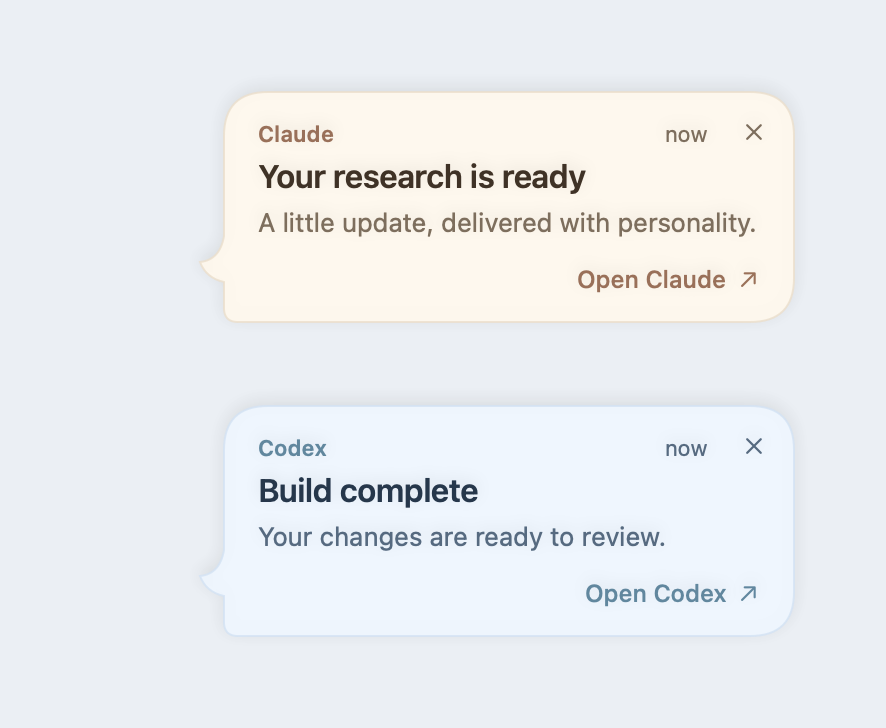
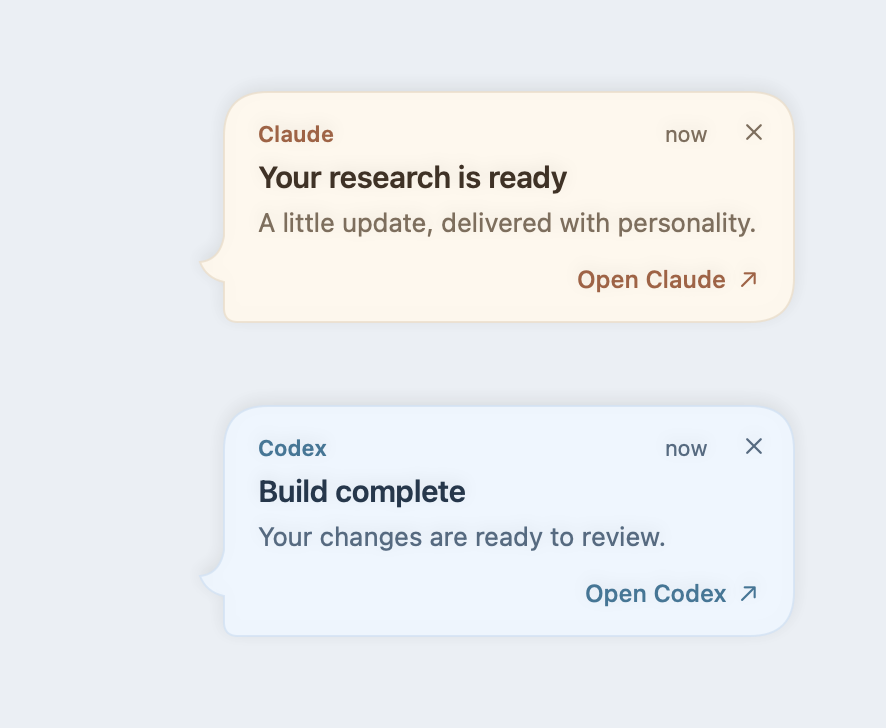
Keep updates quiet and unify vine and notification bubble styling

diff --git a/Sources/AlienPing/VineView.swift b/Sources/AlienPing/VineView.swift
@@ -57,7 +57,10 @@ struct VineView:View {
     @ObservedObject var model:Model
     @ObservedObject var state:VineState
     var targetsChanged:([VineHitTarget])->Void = {_ in}
-    private let ink=Color(hex:"303730")
+    @Environment(\.colorScheme) private var scheme
+    private var ink:Color { Color(hex:scheme == .dark ? "E5ECE4":"303730") }
+    private var chrome:Color { Color(hex:scheme == .dark ? "253029":"FAFCF7") }
+    private var leafInk:Color { Color(hex:scheme == .dark ? "BDD1AB":"536B43") }
     private var unread:[InboxEntry] { VineSummary.previewable(attention.inbox.entries) }
     private var isExpanded:Bool { state.visible(hasItems:!unread.isEmpty,quiet:attention.isQuiet) }
     var body:some View {
@@ -70,21 +73,20 @@ struct VineView:View {
         .coordinateSpace(name:"vine")
         .onPreferenceChange(VineTargets.self,perform:targetsChanged)
         .font(.system(size:13)).foregroundStyle(ink)
-        .environment(\.colorScheme,.light)
     }
     private var expanded:some View {
         VStack(spacing:0) {
             HStack(spacing:8) {
                 Button { attention.showInbox?() } label:{
                     HStack(spacing:8) {
-                        Image(systemName:"leaf").font(.system(size:13,weight:.medium)).foregroundStyle(Color(hex:"687D55"))
+                        Image(systemName:"leaf").font(.system(size:13,weight:.medium)).foregroundStyle(leafInk)
                         Text("Notifications").font(.system(size:13,weight:.medium))
-                        Text("\(min(6,unread.count)) of \(unread.count)").font(.system(size:11)).foregroundStyle(Color(hex:"687268"))
+                        Text("\(min(6,unread.count)) of \(unread.count)").font(.system(size:11)).foregroundStyle(ink.opacity(0.65))
                     }
                 }.buttonStyle(.plain).help("Open notification tray")
                 Spacer(minLength:2)
             }.padding(.leading,12).padding(.trailing,5).frame(height:40)
-                .background(Color(hex:"FAFCF7"),in:RoundedRectangle(cornerRadius:12))
+                .background(chrome,in:RoundedRectangle(cornerRadius:12))
                 .shadow(color:.black.opacity(0.08),radius:8,y:2).vineTarget().padding(.leading,42).padding(.trailing,10).padding(.top,8).padding(.bottom,8)
             GeometryReader { space in
                 ScrollView {
@@ -93,7 +95,7 @@ struct VineView:View {
                             VStack(alignment:.leading,spacing:8) {
                                 Text("No saved previews yet").font(.system(size:15,weight:.medium))
                                 Text("New notifications with message text will appear here. Older alerts without saved text stay in your tray.").font(.system(size:12)).foregroundStyle(ink.opacity(0.7))
-                            }.padding(18).background(Color(hex:"FAFCF7"),in:RoundedRectangle(cornerRadius:14)).padding(.leading,56).padding(.trailing,12)
+                            }.padding(18).background(chrome,in:RoundedRectangle(cornerRadius:14)).padding(.leading,56).padding(.trailing,12)
                         }
                         ForEach(VineSummary.recent(unread)) { entry in
                             row(entry).frame(minHeight:max(112,(space.size.height-16)/CGFloat(max(1,min(6,unread.count)))))
@@ -102,12 +104,12 @@ struct VineView:View {
                 }.scrollIndicators(.hidden)
             }.background(alignment:.leading){ VineStem() }
             Button { attention.showInbox?() } label:{Text("View all notifications").font(.system(size:11,weight:.medium)).padding(.horizontal,14).padding(.vertical,7)}
-                .buttonStyle(.plain).background(Color(hex:"FFF8ED"),in:Capsule()).vineTarget().padding(.vertical,8)
+                .buttonStyle(.plain).background(chrome,in:Capsule()).vineTarget().padding(.vertical,8)
         }
     }
-    private func accent(_ source:SourceApp)->Color { Color(hex:source == .claude ? "A8603F":"347798") }
     private func row(_ entry:InboxEntry)->some View {
-        let color=accent(entry.source)
+        let appearance=NotificationAppearance(source:entry.source,scheme:scheme)
+        let color=appearance.accent
         let missing=entry.title.isEmpty && entry.body.isEmpty
         let title=model.hideText || missing ? "Notification from \(entry.source.rawValue)" : (entry.title.isEmpty ? String(entry.body.prefix(100)) : entry.title)
         let detail=model.hideText ? "Message preview hidden" : (missing ? "Message text wasn’t saved for this older notification." : (entry.title.isEmpty ? "" : entry.body))
@@ -122,17 +124,18 @@ struct VineView:View {
                         HStack {
                             Text(entry.source.rawValue).fontWeight(.semibold).foregroundStyle(color)
                             Spacer()
-                            Text(entry.date.formatted(date:.omitted,time:.shortened)).foregroundStyle(ink.opacity(0.55))
+                            Text(entry.date.formatted(date:.omitted,time:.shortened)).foregroundStyle(appearance.secondary)
                         }.font(.system(size:11))
-                        Text(title).font(.system(size:14,weight:.medium)).lineLimit(2).multilineTextAlignment(.leading)
-                        if !detail.isEmpty { Text(detail).font(.system(size:12)).foregroundStyle(Color(hex:entry.source == .claude ? "66574D":"4C606D")).lineLimit(3).multilineTextAlignment(.leading) }
+                        Text(title).font(NotificationAppearance.title).tracking(-0.2).foregroundStyle(appearance.ink).lineLimit(2).multilineTextAlignment(.leading)
+                        if !detail.isEmpty { Text(detail).font(NotificationAppearance.body).foregroundStyle(appearance.secondary).lineLimit(3).multilineTextAlignment(.leading) }
                     }.frame(maxWidth:.infinity,minHeight:46,alignment:.leading).contentShape(Rectangle())
                 }.buttonStyle(.plain).help("Open \(entry.source.rawValue)")
                 Button { attention.markRead(entry.id) } label:{Image(systemName:"checkmark.circle").font(.system(size:16,weight:.regular)).foregroundStyle(color.opacity(0.8)).frame(width:30,height:44)}
                     .buttonStyle(.plain).help("Mark read").accessibilityLabel("Mark \(title) read")
-            }.padding(.leading,14).padding(.trailing,5).padding(.vertical,12)
-                .background(Color(hex:entry.source == .claude ? "FFFCF6":"F4FAFF"),in:RoundedRectangle(cornerRadius:14))
-                .shadow(color:.black.opacity(0.10),radius:10,y:3).vineTarget(scrolled:true).padding(.trailing,12)
+            }.padding(.leading,27).padding(.trailing,8).padding(.vertical,14)
+                .background(NotificationBubble().fill(appearance.paper))
+                .overlay(NotificationBubble().stroke(appearance.edge.opacity(0.8),lineWidth:1).allowsHitTesting(false))
+                .shadow(color:appearance.shadow,radius:4,y:2).vineTarget(scrolled:true).padding(.trailing,12)
         }.padding(.bottom,8).modifier(VineArrival())
     }
     private var collapsed:some View {
@@ -146,8 +149,8 @@ struct VineView:View {
                 Image(systemName:attention.isQuiet ? "moon":"chevron.\(isExpanded ? "left":"right")").font(.system(size:18,weight:.semibold))
                 if !isExpanded && !unread.isEmpty { Text("\(unread.count)").font(.system(size:11,weight:.semibold)) }
                 if unread.isEmpty { Image(systemName:"leaf").font(.system(size:12)) }
-            }.foregroundStyle(Color(hex:"536B43")).frame(width:52,height:64)
-                .background(Color(hex:"FAFCF7"),in:RoundedRectangle(cornerRadius:18))
+            }.foregroundStyle(leafInk).frame(width:52,height:64)
+                .background(chrome,in:RoundedRectangle(cornerRadius:18))
                 .shadow(color:.black.opacity(0.14),radius:8,y:3).contentShape(RoundedRectangle(cornerRadius:18))
         }.buttonStyle(.plain)
             .accessibilityLabel(isExpanded ? "Collapse notification vine" : "Expand notification vine")

diff --git a/Sources/AlienPing/ReadmePreview.swift b/Sources/AlienPing/ReadmePreview.swift
@@ -11,8 +11,8 @@ enum ReadmePreview {
         let attention=AttentionController(model:model,directory:temporary)
         attention.inbox.insert(InboxEntry(source:.claude,title:"Your research is ready",body:"The comparison and source notes are ready to review."))
         attention.inbox.insert(InboxEntry(source:.codex,title:"Build complete",body:"Your changes are ready. Take a look when you have a moment."))
-        func save<V:View>(_ view:V,_ name:String) throws {
-            let host=NSHostingView(rootView:view.environment(\.colorScheme,.light).environment(\.vineStaticPreview,true))
+        func save<V:View>(_ view:V,_ name:String,scheme:ColorScheme = .light) throws {
+            let host=NSHostingView(rootView:view.environment(\.colorScheme,scheme).environment(\.vineStaticPreview,true))
             let size=host.fittingSize
             host.frame=NSRect(origin:.zero,size:size)
             let window=NSWindow(contentRect:host.frame,styleMask:[.borderless],backing:.buffered,defer:false)
@@ -32,6 +32,16 @@ enum ReadmePreview {
         attention.inbox.insert(InboxEntry(source:.claude,title:"Comparison complete",body:"Three options compared, with the key trade-offs highlighted.",date:Date().addingTimeInterval(-600)))
         attention.inbox.insert(InboxEntry(source:.codex,title:"Review ready",body:"The notification layout changes are ready for you to review.",date:Date().addingTimeInterval(-720)))
         try save(VineView(attention:attention,model:model,state:state).frame(width:372,height:900).padding(22).background(Color(hex:"D7E2EB")),"vine.png")
+        try save(HStack(alignment:.top,spacing:24) {
+            VineView(attention:attention,model:model,state:state).frame(width:372,height:900)
+            VStack(alignment:.leading,spacing:22) {
+                Text("Same messages. Same style.").font(.system(size:22,weight:.semibold)).padding(.leading,60)
+                PingView(ping:Ping(source:.claude,title:"Your research is ready",body:"The comparison and source notes are ready to review."),color:.orange,hideText:false,open:{},dismiss:{}).frame(width:400,height:170)
+                PingView(ping:Ping(source:.codex,title:"Build complete",body:"Your changes are ready. Take a look when you have a moment."),color:.blue,hideText:false,open:{},dismiss:{}).frame(width:400,height:170)
+                Text("Illustrative messages · offscreen render").font(.system(size:12)).foregroundStyle(.secondary).padding(.leading,60)
+            }.padding(.top,40)
+        }.padding(24).background(Color(hex:"EAEFF5")),"matched-ui.png")
+        try save(VineView(attention:attention,model:model,state:state).frame(width:372,height:900).padding(22).background(Color(hex:"151A20")),"vine-dark.png",scheme:.dark)
         state.expanded=false
         try save(VineView(attention:attention,model:model,state:state).frame(width:76,height:116).padding(22).background(Color(hex:"D7E2EB")),"vine-collapsed.png")
         try save(AttentionView(attention:attention,model:model).frame(width:640,height:680),"tray.png")

diff --git a/Sources/AlienPing/Views.swift b/Sources/AlienPing/Views.swift
@@ -30,12 +30,12 @@ struct PingView: View {
     let dismiss: () -> Void
     @Environment(\.colorScheme) private var scheme
     @State private var hovered = false
-    private var isCodex:Bool { ping.source == .codex }
-    private var ink:Color { Color(hex:scheme == .dark ? (isCodex ? "E5F3FF" : "FFF0DE") : (isCodex ? "21384D" : "423124")) }
-    private var secondary:Color { Color(hex:scheme == .dark ? (isCodex ? "A9C5DA" : "C6B6A5") : (isCodex ? "516B82" : "806D5B")) }
-    private var paper:Color { Color(hex:scheme == .dark ? (isCodex ? "142B3E" : "302A25") : (isCodex ? "EDF6FF" : "FFF8ED")) }
-    private var edge:Color { Color(hex:scheme == .dark ? (isCodex ? "31536D" : "514439") : (isCodex ? "D0E3F5" : "EDDEC9")) }
-    private var accent:Color { scheme == .dark ? color : Color(nsColor:(NSColor(color).blended(withFraction:0.38,of:.black) ?? NSColor(color))) }
+    private var appearance:NotificationAppearance { NotificationAppearance(source:ping.source,scheme:scheme) }
+    private var ink:Color { appearance.ink }
+    private var secondary:Color { appearance.secondary }
+    private var paper:Color { appearance.paper }
+    private var edge:Color { appearance.edge }
+    private var accent:Color { appearance.accent }
     var body: some View {
         ZStack(alignment:.topTrailing) {
             Button(action:open) {
@@ -46,7 +46,7 @@ struct PingView: View {
                         Text(ping.preview ? "Preview" : "now").font(.system(size:11)).foregroundStyle(secondary)
                     }.padding(.trailing,25)
                     Text(hideText ? "New notification" : ping.title)
-                        .font(.system(size:16,weight:.semibold)).tracking(-0.2).lineLimit(1)
+                        .font(NotificationAppearance.title).tracking(-0.2).lineLimit(1)
                         .frame(maxWidth:.infinity,alignment:.leading)
                     Text(hideText ? "Your message is ready to read." : ping.body)
                         .font(.system(size:13)).foregroundStyle(secondary).lineLimit(2)
@@ -71,7 +71,7 @@ struct PingView: View {
         }
         .background(NotificationBubble().fill(paper))
         .overlay(NotificationBubble().stroke(edge.opacity(hovered ? 1 : 0.8),lineWidth:1).allowsHitTesting(false))
-        .shadow(color:.black.opacity(scheme == .dark ? 0.18 : 0.08),radius:4,x:0,y:2)
+        .shadow(color:appearance.shadow,radius:4,x:0,y:2)
         .padding(.leading,60).padding(.trailing,6).padding(.vertical,6)
         .onHover { hovered=$0 }
     }

diff --git a/Sources/AlienPing/NotificationAppearance.swift b/Sources/AlienPing/NotificationAppearance.swift
@@ -1,0 +1,19 @@
+import SwiftUI
+import AlienCore
+
+/// Shared by live speech bubbles and saved vine messages.
+struct NotificationAppearance {
+    let source:SourceApp
+    let scheme:ColorScheme
+    private var codex:Bool { source == .codex }
+    private var dark:Bool { scheme == .dark }
+    var ink:Color { Color(hex:dark ? (codex ? "E5F3FF":"FFF0DE") : (codex ? "21384D":"423124")) }
+    var secondary:Color { Color(hex:dark ? (codex ? "A9C5DA":"C6B6A5") : (codex ? "516B82":"806D5B")) }
+    var paper:Color { Color(hex:dark ? (codex ? "142B3E":"302A25") : (codex ? "EDF6FF":"FFF8ED")) }
+    var edge:Color { Color(hex:dark ? (codex ? "31536D":"514439") : (codex ? "D0E3F5":"EDDEC9")) }
+    var accent:Color { Color(hex:dark ? (codex ? "81C9ED":"EDA47F") : (codex ? "347798":"A8603F")) }
+    var shadow:Color { .black.opacity(dark ? 0.18:0.08) }
+    static let title=Font.system(size:15,weight:.semibold)
+    static let body=Font.system(size:13)
+    static let label=Font.system(size:11,weight:.semibold)
+}

diff --git a/Sources/AlienPing/main.swift b/Sources/AlienPing/main.swift
@@ -45,7 +45,7 @@ final class Delegate: NSObject, NSApplicationDelegate {
         vineMenuItem?.state = vine?.state.enabled == true ? .on : .off
         model.monitor.start()
         if CommandLine.arguments.contains("-mascotPreview") { showMascotStage() }
-        else if !CommandLine.arguments.contains("--login-item") { showSettings() }
+        else if !CommandLine.arguments.contains("--login-item") && !CommandLine.arguments.contains("--background") { showSettings() }
         if CommandLine.arguments.contains("--preview-all") {
             DispatchQueue.main.asyncAfter(deadline:.now()+1) {
                 self.model.preview(.claude)

diff --git a/scripts/test_pipeline.py b/scripts/test_pipeline.py
@@ -38,6 +38,12 @@ class PipelineTests(unittest.TestCase):
                 self.assertEqual((live/'version').read_text(),'old')
                 self.assertEqual((root/'failed.app/version').read_text(),'new')
                 self.assertEqual(launch.call_count,2)
+    def test_update_launch_is_background_without_test_alerts(self):
+        with tempfile.TemporaryDirectory() as tmp:
+            logs=Path(tmp); (logs/'AlienPing-status.json').write_text('{}')
+            with patch.object(p,'LOGS',logs), patch.object(p,'run') as run, patch.object(p,'pids',return_value=set()), patch.object(p,'fresh_status',return_value=True):
+                p.launch()
+                self.assertEqual(run.call_args.args[0],['open','-n','-g',str(p.LIVE),'--args','--background'])
     def test_process_match_is_exact(self):
         path='/test space/AlienPing.app/Contents/MacOS/AlienPing'
         self.assertEqual(p.match_pids('12 '+path+' --preview-all\n13 cat '+path+'\n14 '+path+'Other',path),{12})

diff --git a/scripts/pipeline.py b/scripts/pipeline.py
@@ -68,8 +68,8 @@ def verify(app):
 
 def launch(preview=False):
     started=time.time()
-    command=['open','-n','-g',str(LIVE)]
-    if preview: command+=['--args','--preview-all']
+    command=['open','-n','-g',str(LIVE),'--args','--background']
+    if preview: command+=['--preview-all']
     run(command)
     deadline=time.monotonic()+20
     while time.monotonic()<deadline:

diff --git a/README.md b/README.md
@@ -22,13 +22,15 @@ These GIFs show the bundled character frames. In the app, companions also travel
 
 ![Native notification vine with sample messages](docs/images/vine.png)
 
-Unread Claude and Codex updates become orange and blue leaves along the left screen edge. Click a title to open its app or the check to mark it read. The vine uses the full available screen height and shows the latest six individual unread notifications across both apps, newest first, with their titles and message previews. Items without saved text are omitted from the vine; all notifications remain in the full tray. New cards fade in, with a static Reduce Motion alternative. Collapse it with the larger button midway down the left edge, or hide it through **sparkle menu → Show notification vine**. Your choice survives restart. Quiet mode and an empty tray show only the small leaf badge.
+Unread Claude and Codex updates become orange and blue leaves along the left screen edge. Click a title to open its app or the check to mark it read. The vine uses the full available screen height and shows the latest six individual unread notifications across both apps, newest first, with their titles and message previews. Items without saved text are omitted from the vine; all notifications remain in the full tray. New cards fade in, with a static Reduce Motion alternative. Collapse it with the larger button midway down the left edge, or hide it through **sparkle menu → Show notification vine**. Your choice survives restart. Quiet mode and an empty tray default to the small leaf badge; clicking it still opens the vine. The vine and live alerts share speech-bubble styling, including light/dark colors and blue Codex accents.
 
 ![Collapsed vine badge](docs/images/vine-collapsed.png)
 
 ![Native card fade rendered offscreen](docs/images/vine-fade.gif)
 
 The fade preview uses illustrative content rendered offscreen; it is not a desktop recording.
+
+![Matching tree and notification styling](docs/images/matched-ui.png)
 
 ### Catch up when you’re ready
 
@@ -45,7 +47,7 @@ Missed notifications stay in your tray. Bursts within two seconds become one sum
 
 ## Download and install
 
-Get **Psst-0.8.6-universal.dmg** from [Releases](https://github.com/Sickaada/psst/releases). Apple Silicon and Intel are included in one app. macOS 14 or newer is required. Notification compatibility depends on the macOS and source-app versions; this first release has not been tested on every supported Mac.
+Get **Psst-0.8.7-universal.dmg** from [Releases](https://github.com/Sickaada/psst/releases). Apple Silicon and Intel are included in one app. macOS 14 or newer is required. Notification compatibility depends on the macOS and source-app versions; this first release has not been tested on every supported Mac.
 
 1. Open the disk image and drag **Psst** into **Applications**. Eject the disk image.
 2. Open Psst from Applications. This personal/community build is locally signed, **not Apple-notarized**. If macOS blocks it, review [Apple’s instructions for opening an app from an unidentified developer](https://support.apple.com/en-us/102445). Only proceed if you trust this download. Do not disable Gatekeeper globally or install a signing certificate.
@@ -100,7 +102,7 @@ python3 scripts/setup_signing.py
 
 The output defaults to `../Psst.app`; set `APP_OUTPUT` to choose another path. The private signing key stays in your Keychain; never commit/export it to this repository. `scripts/sign_app.py` pins the certificate and bundle identifier and fails if no valid signing configuration exists. It does not silently fall back to ad-hoc signing. Our release signing identity is not included. Your own builds require your own initial Accessibility approval.
 
-`./pipeline.sh update --preview` is the legacy developer checkout updater. It uses `../AlienPing.app`, takes a backup, verifies signatures, checks a fresh runtime heartbeat, and sends synthetic notifications. It does not overwrite `/Applications/Psst.app`. `./pipeline.sh rollback` restores its previous local build and re-signs it with the configured identity.
+`./pipeline.sh update` is the legacy developer checkout updater. It uses `../AlienPing.app`, takes a backup, verifies signatures, checks a fresh runtime heartbeat, and starts quietly without opening settings or sending test notifications. Synthetic notifications are only sent when explicitly requested with `--preview`. It does not overwrite `/Applications/Psst.app`. `./pipeline.sh rollback` restores its previous local build and re-signs it with the configured identity.
 
 For a distributable release, run `python3 scripts/package_release.py /path/to/Psst.app /path/to/output`. Apple Developer ID signing and notarization are required for normal trusted public distribution; this repository does not claim notarization.
 
